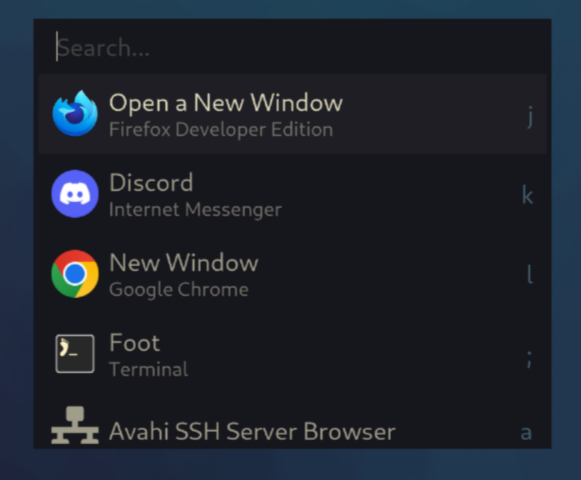
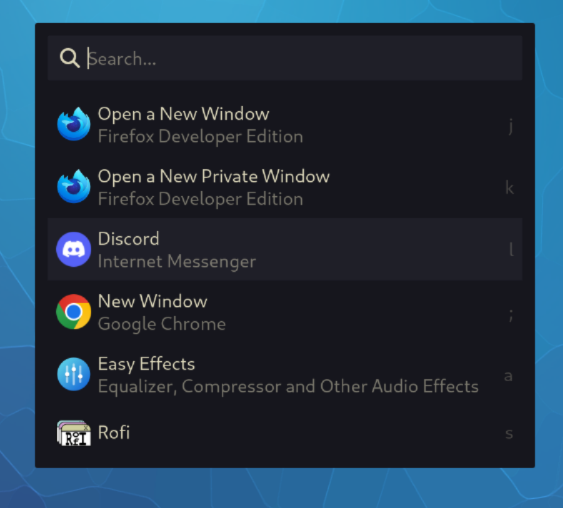
misc: improve ootb experience with default config/theme

diff --git a/ui/themes/style.default.css b/ui/themes/style.default.css
@@ -1,0 +1,72 @@
+* {
+  color: #dcd7ba;
+}
+
+#window {
+}
+
+#box {
+  background: #16161d;
+  padding: 10px;
+  border-radius: 2px;
+}
+
+#search {
+  border-radius: 0;
+  outline: none;
+  outline-width: 0px;
+  box-shadow: none;
+  border-bottom: none;
+  border: none;
+  background: #1f1f28;
+  padding-left: 10px;
+  padding-right: 10px;
+  padding-top: 0px;
+  padding-bottom: 0px;
+  border-radius: 2px;
+}
+
+#search placeholder {
+  opacity: 0.5;
+}
+
+#list {
+}
+
+#list *:selected {
+  background: #1f1f28;
+}
+
+.item {
+  padding: 5px;
+  border-radius: 2px;
+}
+
+.icon {
+  padding-right: 5px;
+}
+
+.textwrapper {
+}
+
+.label {
+}
+
+.sub {
+  opacity: 0.5;
+}
+
+.activationlabel {
+  opacity: 0.25;
+}
+
+.activation .activationlabel {
+  opacity: 1;
+  color: #76946a;
+}
+
+.activation .textwrapper,
+.activation .icon,
+.activation .search {
+  opacity: 0.5;
+}

diff --git a/config/config.go b/config/config.go
@@ -1,6 +1,7 @@
 package config
 
 import (
+	_ "embed"
 	"encoding/json"
 	"io"
 	"log"
@@ -8,6 +9,9 @@ import (
 	"os/exec"
 	"path/filepath"
 )
+
+//go:embed config.default.json
+var config []byte
 
 type Config struct {
 	Placeholder           string   `json:"placeholder,omitempty"`
@@ -61,6 +65,7 @@ type Margins struct {
 }
 
 type List struct {
+	MarginTop   int  `json:"margin_top,omitempty"`
 	Height      int  `json:"height,omitempty"`
 	AlwaysShow  bool `json:"always_show,omitempty"`
 	FixedHeight bool `json:"fixed_height,omitempty"`
@@ -75,45 +80,7 @@ func Get() *Config {
 	cfgDir = filepath.Join(cfgDir, "walker")
 	cfgName := filepath.Join(cfgDir, "config.json")
 
-	cfg := &Config{
-		Terminal:              "",
-		Fullscreen:            true,
-		ShowInitialEntries:    false,
-		ShellConfig:           "",
-		Placeholder:           "Search...",
-		DisableActivationMode: false,
-		NotifyOnFail:          true,
-		Icons: Icons{
-			Hide:        false,
-			Size:        32,
-			ImageHeight: 100,
-		},
-		Search: Search{
-			Delay:     0,
-			HideIcons: false,
-		},
-		Align: Align{
-			Horizontal: "center",
-			Vertical:   "start",
-			Width:      400,
-			Margins: Margins{
-				Top:    50,
-				Bottom: 0,
-				End:    0,
-				Start:  0,
-			},
-		},
-		Modules: []Module{
-			{Name: "runner", Prefix: ""},
-			{Name: "websearch", Prefix: "?"},
-			{Name: "applications", Prefix: ""},
-		},
-		List: List{
-			Height:      300,
-			AlwaysShow:  false,
-			FixedHeight: false,
-		},
-	}
+	cfg := &Config{}
 
 	if _, err := os.Stat(cfgName); err == nil {
 		file, err := os.Open(cfgName)
@@ -127,6 +94,16 @@ func Get() *Config {
 		}
 
 		err = json.Unmarshal(b, &cfg)
+		if err != nil {
+			log.Fatalln(err)
+		}
+	} else {
+		err = json.Unmarshal(config, &cfg)
+		if err != nil {
+			log.Fatalln(err)
+		}
+
+		err := os.WriteFile(cfgName, config, 0o600)
 		if err != nil {
 			log.Fatalln(err)
 		}

diff --git a/ui/ui.go b/ui/ui.go
@@ -21,8 +21,8 @@ import (
 //go:embed layout.xml
 var layout string
 
-//go:embed defaultstyle.css
-var style string
+//go:embed themes/style.default.css
+var style []byte
 
 var labels = []string{"j", "k", "l", ";", "a", "s", "d", "f"}
 
@@ -82,7 +82,7 @@ func Activate(state *state.AppState) func(app *gtk.Application) {
 		ui.appwin.SetApplication(app)
 
 		gtk4layershell.InitForWindow(&ui.appwin.Window)
-		gtk4layershell.SetKeyboardMode(&ui.appwin.Window, gtk4layershell.LayerShellKeyboardModeExclusive)
+		gtk4layershell.SetKeyboardMode(&ui.appwin.Window, gtk4layershell.LayerShellKeyboardModeOnDemand)
 
 		if !cfg.Fullscreen {
 			gtk4layershell.SetLayer(&ui.appwin.Window, gtk4layershell.LayerShellLayerTop)
@@ -121,7 +121,12 @@ func setupUI(app *gtk.Application) {
 	if _, err := os.Stat(cssFile); err == nil {
 		cssProvider.LoadFromPath(cssFile)
 	} else {
-		cssProvider.LoadFromData(style)
+		cssProvider.LoadFromData(string(style))
+
+		err := os.WriteFile(cssFile, style, 0o600)
+		if err != nil {
+			log.Fatalln(err)
+		}
 	}
 
 	gtk.StyleContextAddProviderForDisplay(gdk.DisplayGetDefault(), cssProvider, gtk.STYLE_PROVIDER_PRIORITY_USER)
@@ -143,6 +148,10 @@ func setupUI(app *gtk.Application) {
 	}
 
 	factory := gtk.NewSignalListItemFactory()
+
+	if cfg.List.MarginTop != 0 {
+		ui.list.SetMarginTop(cfg.List.MarginTop)
+	}
 
 	fc := gtk.NewEventControllerFocus()
 	fc.Connect("enter", func() {

diff --git a/README.md b/README.md
@@ -2,7 +2,7 @@
 
 ![Screenshot](https://github.com/abenz1267/walker/blob/master/screenshot.png?raw=true)
 
-(example styling, not default)
+(default style)
 
 ## Features
 
@@ -38,60 +38,9 @@ yay -S walker
 
 ## Config & Style
 
-Config in `.config/walker/`.
+Default config will be put into `$HOME/.config/walker/`.
 
-See `config.example.json` and `style.example.css`.
-
-```json
-{
-  "terminal": "foot",
-  "placeholder": "Search...",
-  "shell_config": "/home/andrej/.zshrc", // for parsing shell aliases
-  "notify_on_fail": true,
-  "show_initial_entries": true, // always shows entries for emtpy search
-  "disable_activation_mode": false,
-  "fullscreen": true,
-  "search": {
-    "delay": 150, // in ms
-    "hide_icons": true
-  },
-  "align": {
-    "width": 400,
-    "horizontal": "center", // fill, start, end, center
-    "vertical": "start", // fill, start, end, center
-    "margins": {
-      "top": 300,
-      "bottom": 0,
-      "end": 0,
-      "start": 0
-    }
-  },
-  "list": {
-    "height": 300,
-    "always_show": true
-  },
-  "orientation": "vertical", // vertical, horizontal
-  "icons": {
-    "hide": false,
-    "size": 38,
-    "image_height": 200
-  },
-  "modules": [
-    {
-      "name": "runner",
-      "prefix": "!"
-    },
-    {
-      "name": "applications",
-      "prefix": ""
-    },
-    {
-      "name": "websearch",
-      "prefix": "?"
-    }
-  ]
-}
-```
+See `config/config.default.json` and `ui/style.default.css`.
 
 ## Providing your own modules
 
